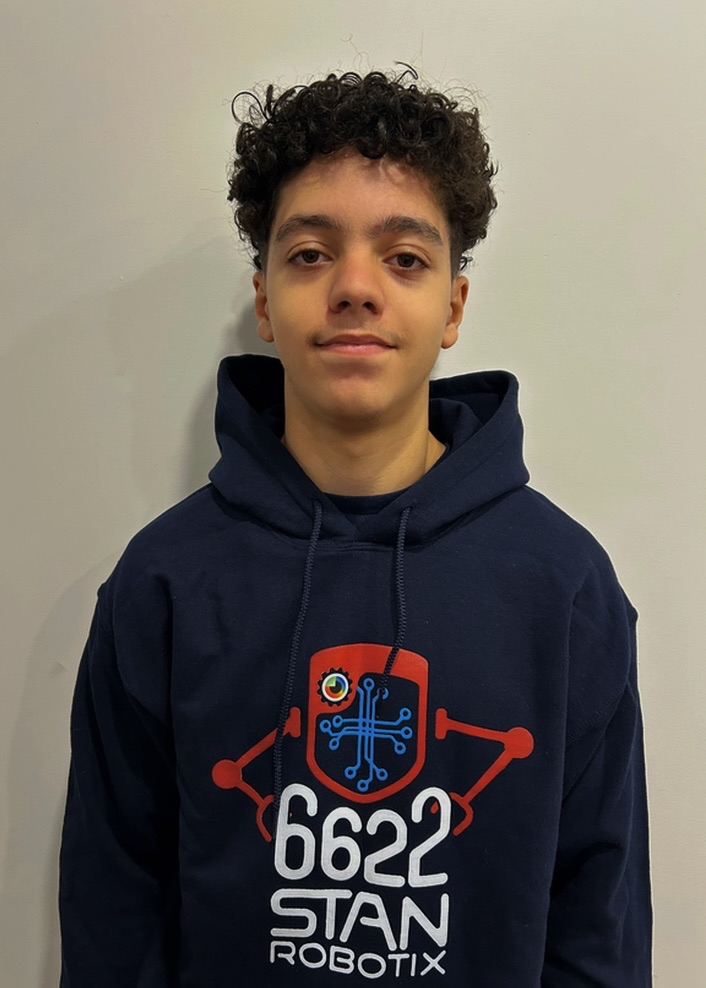
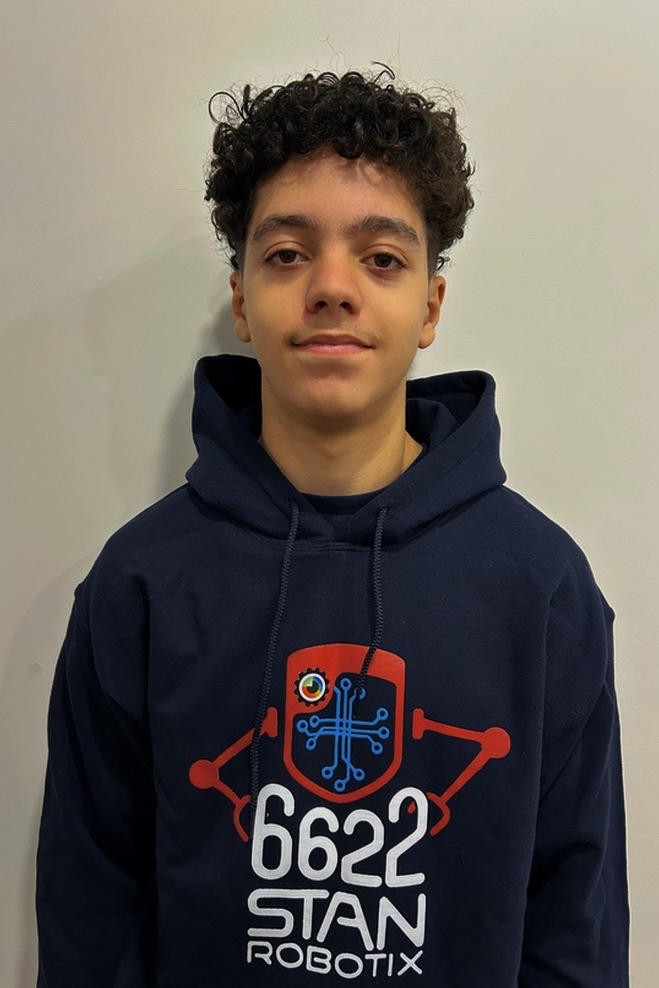
Fixed Nayl's picture and the team picture on the home page

diff --git a/src/components/AboutOrganizationalChart.vue b/src/components/AboutOrganizationalChart.vue
@@ -9,7 +9,7 @@ const captains = [
 const members = [
     { link: "/src/components/images/TeamMembers_images/Maya_Picture.jpg", name: "Maya", title: "Communication Lead"},
     { link: "/src/components/images/TeamMembers_images/Alban_Picture.jpg", name: "Alban", title: "Construction Lead"},
-    { link: "/src/components/images/TeamMembers_images/Nayl_Picture.jpg", name: "Nayl", title: "Dev Member"},
+    { link: "/src/components/images/TeamMembers_images/Nayl_Picture.png", name: "Nayl", title: "Dev Member"},
     { link: "/src/components/images/TeamMembers_images/Raphael_Picture.jpg", name: "Raphaël", title: "Dev Member"},
     { link: "/src/components/images/TeamMembers_images/Katherine_Picture.jpg", name: "Katherine", title: "Security Lead & Dev Member"}
 ];

diff --git a/src/components/HomePhoto.vue b/src/components/HomePhoto.vue
@@ -23,7 +23,7 @@ section {
 
 main {
   // TODO-Content: put a team photo
-  background-image: url("../components/images/TeamPic-2025.jpg");
+  background-image: url("../components/images/Outreach_images/TeamPic-2025.jpg");
 
   min-height: 90vh;
   width: 90vw;
